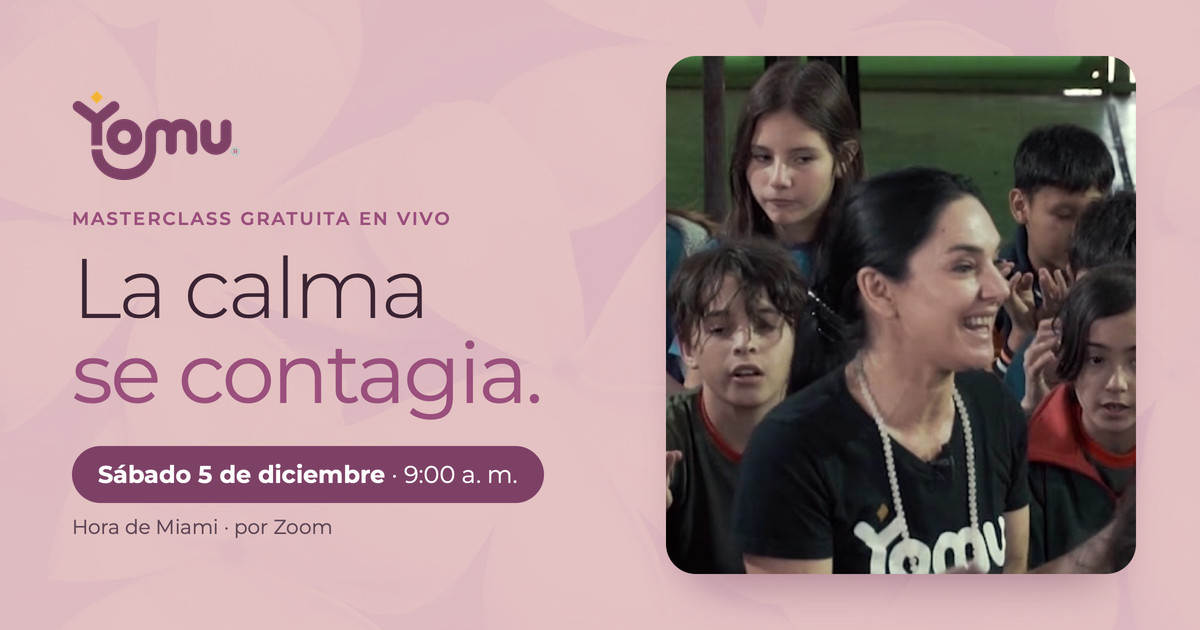
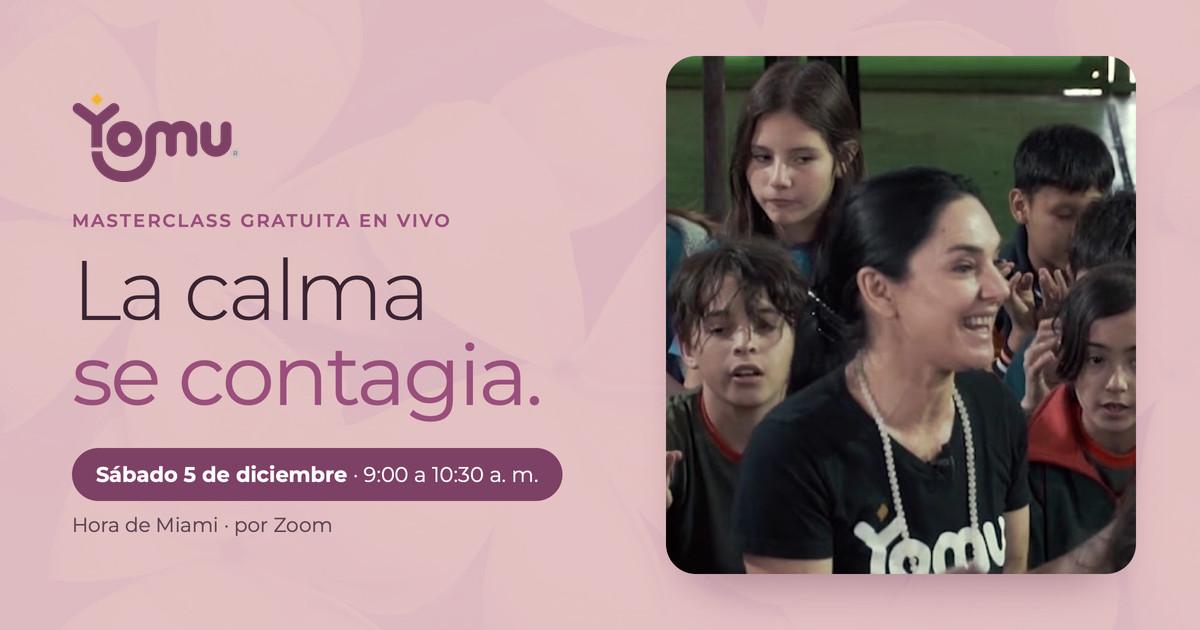
Masterclass: video junto al título en escritorio; 9:00 a 10:30 en el cierre y en la página de gracias; imagen para compartir con el horario completo

diff --git a/preventa-2027/body-masterclass.html b/preventa-2027/body-masterclass.html
@@ -143,7 +143,7 @@
   <div class="final-bg"><picture><source srcset="https://yomulove.github.io/yomu-assets/preventa-2027/assets/fotos/hero-nina-pasto.webp?v=f5d028be" type="image/webp"><img src="https://yomulove.github.io/yomu-assets/preventa-2027/assets/fotos/hero-nina-pasto.jpg?v=8fa4dfca" alt="Una niña recostada en el pasto con los ojos cerrados y las manos sobre el pecho" width="2000" height="1333" loading="lazy"></picture></div>
   <div class="wrap narrow final-body">
     <h2 id="final-h"><span>Ellos no aprenden a calmarse solos.</span> <span class="accent">Aprenden contigo.</span></h2>
-    <p class="mc-when"><b>Masterclass gratuita en vivo por Zoom</b><br>Sábado 5 de diciembre · 9:00 a. m. (hora de Miami)</p>
+    <p class="mc-when"><b>Masterclass gratuita en vivo por Zoom</b><br>Sábado 5 de diciembre · 9:00 a 10:30 a. m. (hora de Miami)</p>
     <div class="mc-card">
       <form class="mc-form" id="form-cierre" novalidate data-mc-form>
 <div class="fg"><label for="cierre-name">Tu nombre</label><input id="cierre-name" name="name" type="text" autocomplete="given-name" required></div>

diff --git a/preventa-2027/assets/preventa-kajabi.css b/preventa-2027/assets/preventa-kajabi.css
@@ -782,8 +782,9 @@ picture img,.photo img{width:100%;height:100%;object-fit:cover}
   .mc-evento .hero-copy{display:contents}
   .mc-evento .hero-copy>*{grid-column:1}
   .mc-evento .mc-head{grid-row:1}.mc-evento h1{grid-row:2}.mc-evento .sub{grid-row:3}.mc-evento .mc-ticket{grid-row:4}.mc-evento .mc-hosts{grid-row:5}
-  .mc-evento .mc-card{grid-row:6;align-self:center}.mc-evento .mc-times{grid-row:7}
-  .mc-hero .mc-hero-vid{grid-column:2;grid-row:6;align-self:center}
+  .mc-evento .mc-card{grid-row:6;align-self:start}.mc-evento .mc-times{grid-row:7}
+  /* (2026-11-23, ajuste 3) el video sube a la derecha del título: en 1440×900 se ven juntos etiqueta, título, boleto y video */
+  .mc-hero .mc-hero-vid{grid-column:2;grid-row:1 / 6;align-self:center}
 }
 
 /* Kajabi: sin menú ni pie de la plataforma */

diff --git a/preventa-2027/body-gracias-masterclass.html b/preventa-2027/body-gracias-masterclass.html
@@ -12,7 +12,7 @@
       <div class="mc-card mc-event">
         <p class="mc-event-name">La calma se contagia</p>
         <p class="mc-event-type">Masterclass gratuita en vivo por Zoom</p>
-        <p class="mc-when"><b>Sábado 5 de diciembre</b> · 9:00 a. m. (hora de Miami)</p>
+        <p class="mc-when"><b>Sábado 5 de diciembre</b> · 9:00 a 10:30 a. m. (hora de Miami)</p>
         <ul class="mc-tz"><li><b>8:00 a 9:30 a. m.</b><span>Ciudad de México</span></li><li><b>9:00 a 10:30 a. m.</b><span>Miami, Bogotá y Lima</span></li><li><b>11:00 a. m. a 12:30 p. m.</b><span>Buenos Aires y Santiago</span></li><li><b>3:00 a 4:30 p. m.</b><span>Madrid</span></li></ul>
         <div class="mc-cal">
           <p class="mc-cal-t">Agregar a mi calendario</p>
